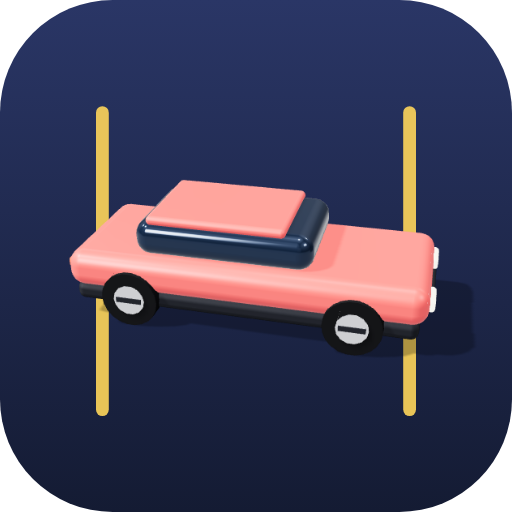
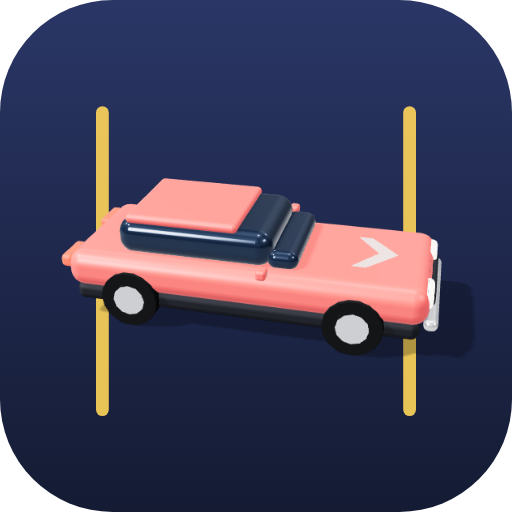
Better vehicle models
- Race car rebuilt as an open-wheel racer: pointed nose, front wing,
  driver helmet, side pods with number roundels, tapered engine cover,
  rear wing on pylons, narrow front / fat rear slicks.
- Ambulance is now a van with a hood, raked windshield, cab windows,
  side crosses and rear door line.
- Jeep: open tub floor, slotted grille, windshield frame, seat backs,
  fenders, spare-wheel hub.
- Bus window pillars, bumpers and roof hatch; ice cream truck awning;
  mixer drum supports, chute and water tank; truck fuel tanks.
- App icons re-rendered with the updated car.

Claude-Session: https://claude.ai/code/session_01PmPxjwzzer95qyShgNaDxc

diff --git a/js/models.js b/js/models.js
@@ -180,6 +180,44 @@ function lights(body, W, L, y, front = true, rear = true) {
   if (rear) for (const s of [-1, 1]) mesh(rbox(0.2, 0.07, 0.07, 0.025), M.glow(0xff1f2e, 1.7), s * W * 0.32, y, L / 2 + 0.01, body);
 }
 
+/** A box whose front (-Z) end is narrowed and lowered: noses, wedges, engine covers. */
+function wedge(w, h, d, frontW = 0.5, frontH = 0.5) {
+  return geo(`wd${w}|${h}|${d}|${frontW}|${frontH}`, () => {
+    const g = new THREE.BoxGeometry(w, h, d);
+    const pos = g.attributes.position;
+    for (let i = 0; i < pos.count; i++) {
+      if (pos.getZ(i) < 0) {
+        pos.setX(i, pos.getX(i) * frontW);
+        if (pos.getY(i) > 0) pos.setY(i, -h / 2 + h * frontH);
+      }
+    }
+    g.computeVertexNormals();
+    return g;
+  });
+}
+
+function roundel(parent, n, x, y, z, size, rotZ = 0) {
+  const m = mat('roundel' + n, () => {
+    const c = document.createElement('canvas');
+    c.width = c.height = 128;
+    const t = c.getContext('2d');
+    t.fillStyle = '#fff'; t.beginPath(); t.arc(64, 64, 60, 0, 7); t.fill();
+    t.lineWidth = 8; t.strokeStyle = '#1b1f2a'; t.stroke();
+    t.fillStyle = '#1b1f2a'; t.font = 'bold 84px system-ui, sans-serif'; t.textAlign = 'center'; t.textBaseline = 'middle';
+    t.fillText(String(n), 64, 70);
+    const tex = new THREE.CanvasTexture(c);
+    tex.colorSpace = THREE.SRGBColorSpace;
+    return new THREE.MeshStandardMaterial({ map: tex, transparent: true, roughness: 0.5, polygonOffset: true, polygonOffsetFactor: -4, polygonOffsetUnits: -4, depthWrite: false });
+  });
+  const o = new THREE.Mesh(geo('roundelPlane', () => new THREE.PlaneGeometry(1, 1)), m);
+  o.scale.set(size, size, 1);
+  o.rotation.set(-Math.PI / 2, 0, rotZ);
+  o.position.set(x, y, z);
+  o.renderOrder = 1;
+  parent.add(o);
+  return o;
+}
+
 // A forward-pointing chevron painted on the hood: the clearest "this way" cue from above.
 function hoodArrow(parent, y, z, w) {
   const g = geo('chev' + w, () => {
@@ -282,6 +320,8 @@ export function buildVehicle(v, opts = {}) {
     for (const s of [-1, 1]) mesh(rbox(0.05, 0.14, 0.04, 0.015), M.dark(), s * (W / 2 + 0.035), 0.52, -L / 2 + 0.12, body);
     lights(body, W, L, 0.33, true, true);
     for (const z of [-L / 2 + 0.38, L / 2 - 0.38, L / 2 - 0.82]) for (const s of [-1, 1]) wheel(body, s * (W / 2 - 0.04), 0.16, z, 0.16, 0.12);
+    const tank = mesh(cyl(0.075, 0.075, 0.26, 14), M.chrome(), -(W / 2 - 0.05), 0.23, -L / 2 + 0.95, body);
+    tank.rotation.x = Math.PI / 2;
     eyeY = 0.55; eyeZ = -L / 2 - 0.02;
     return { cargoZ: -L / 2 + cabL + 0.04 + (cargoLen ?? L - cabL - 0.04) / 2, cargoL: cargoLen ?? L - cabL - 0.04 };
   };
@@ -301,44 +341,95 @@ export function buildVehicle(v, opts = {}) {
       break;
     }
     case 'ambulance': {
+      const white = M.paint(0xf6f7fb), red = M.matte(0xff3040);
       mesh(rbox(W * 0.94, 0.1, L * 0.96, 0.04), M.dark(), 0, 0.14, 0, body);
-      mesh(rbox(W, 0.5, L, 0.1), M.paint(0xf6f7fb), 0, 0.42, 0, body);
-      mesh(rbox(W * 0.86, 0.17, 0.08, 0.04), M.glass(), 0, 0.52, -L / 2 + 0.02, body);
-      for (const s of [-1, 1]) mesh(new THREE.BoxGeometry(0.01, 0.07, L * 0.9), M.matte(0xff3040), s * (W / 2 + 0.002), 0.36, 0, body);
-      mesh(new THREE.BoxGeometry(0.1, 0.012, 0.3), M.matte(0xff3040), 0, 0.675, 0.15, body);
-      mesh(new THREE.BoxGeometry(0.3, 0.012, 0.1), M.matte(0xff3040), 0, 0.675, 0.15, body);
-      lightBar(body, 0.68, -L * 0.3, 0xff2020, 0xff2020, sirens);
-      lights(body, W, L, 0.3);
-      for (const z of [-L * 0.31, L * 0.31]) for (const s of [-1, 1]) wheel(body, s * (W / 2 - 0.035), 0.15, z, 0.15, 0.11);
-      eyeY = 0.53; eyeZ = -L / 2 - 0.03;
+      const hoodL = 0.4;
+      mesh(rbox(W, 0.28, hoodL + 0.1, 0.08), white, 0, 0.3, -L / 2 + (hoodL + 0.1) / 2, body);
+      const boxL = L - hoodL;
+      const bz = -L / 2 + hoodL + boxL / 2;
+      mesh(rbox(W, 0.58, boxL, 0.08), white, 0, 0.44, bz, body);
+      // raked windshield + cab side windows
+      mesh(rbox(W * 0.86, 0.2, 0.1, 0.04), M.glass(), 0, 0.5, -L / 2 + hoodL + 0.01, body);
+      for (const sx of [-1, 1]) mesh(rbox(0.02, 0.15, 0.24, 0.02), M.glass(), sx * (W / 2 + 0.002), 0.55, -L / 2 + hoodL + 0.14, body);
+      // stripes, crosses, rear doors
+      for (const sx of [-1, 1]) {
+        mesh(new THREE.BoxGeometry(0.01, 0.07, L * 0.92), red, sx * (W / 2 + 0.004), 0.33, 0, body);
+        mesh(new THREE.BoxGeometry(0.01, 0.2, 0.06), red, sx * (W / 2 + 0.005), 0.53, bz + 0.12, body);
+        mesh(new THREE.BoxGeometry(0.01, 0.06, 0.2), red, sx * (W / 2 + 0.005), 0.53, bz + 0.12, body);
+      }
+      mesh(new THREE.BoxGeometry(0.1, 0.012, 0.32), red, 0, 0.735, bz + 0.12, body);
+      mesh(new THREE.BoxGeometry(0.32, 0.012, 0.1), red, 0, 0.735, bz + 0.12, body);
+      mesh(new THREE.BoxGeometry(0.012, 0.42, 0.012), M.dark(), 0, 0.44, L / 2 + 0.003, body);
+      mesh(rbox(W * 0.96, 0.06, 0.07, 0.03), M.chrome(), 0, 0.19, -L / 2 - 0.012, body);
+      lightBar(body, 0.74, -L / 2 + hoodL + 0.12, 0xff2020, 0x2060ff, sirens);
+      lights(body, W, L, 0.33);
+      for (const z of [-L * 0.31, L * 0.31]) for (const sx of [-1, 1]) wheel(body, sx * (W / 2 - 0.035), 0.15, z, 0.15, 0.11);
+      eyeY = 0.52; eyeZ = -L / 2 + hoodL - 0.04;
       break;
     }
     case 'racecar': {
-      mesh(rbox(W * 0.9, 0.06, L * 0.96, 0.03), M.dark(), 0, 0.1, 0, body);
-      mesh(rbox(W * 0.98, 0.15, L * 0.96, 0.07), P(col), 0, 0.2, 0, body);
-      mesh(rbox(W * 0.6, 0.13, L * 0.32, 0.06), M.glass(), 0, 0.31, L * 0.05, body);
-      mesh(new THREE.BoxGeometry(0.1, 0.005, L * 0.95), M.matte(0xffffff), -0.08, 0.278, 0, body);
-      mesh(new THREE.BoxGeometry(0.1, 0.005, L * 0.95), M.matte(0xffffff), 0.08, 0.278, 0, body);
-      for (const s of [-1, 1]) mesh(new THREE.BoxGeometry(0.04, 0.16, 0.04), M.dark(), s * 0.22, 0.34, L / 2 - 0.1, body);
-      mesh(rbox(W * 1.02, 0.04, 0.16, 0.02), P(col), 0, 0.43, L / 2 - 0.1, body);
-      lights(body, W, L, 0.22);
-      for (const z of [-L * 0.32, L * 0.3]) for (const s of [-1, 1]) wheel(body, s * (W / 2 - 0.02), 0.14, z, 0.14, 0.15);
-      eyeY = 0.33; eyeZ = L * 0.05 - L * 0.16 - 0.02;
+      const paint = P(col);
+      const accent = M.paint(0xffffff);
+      // floor plank + pointed nose
+      mesh(rbox(W * 0.5, 0.04, L * 0.86, 0.015), M.dark(), 0, 0.085, 0.02, body);
+      mesh(wedge(0.3, 0.13, L * 0.42, 0.45, 0.45), paint, 0, 0.17, -L * 0.27, body);
+      mesh(rbox(0.06, 0.006, L * 0.36, 0.003), accent, 0, 0.215, -L * 0.24, body);
+      // front wing with end plates
+      mesh(rbox(W * 1.04, 0.03, 0.15, 0.012), paint, 0, 0.085, -L / 2 + 0.06, body);
+      for (const s of [-1, 1]) mesh(rbox(0.025, 0.09, 0.18, 0.01), M.dark(), s * W * 0.52, 0.11, -L / 2 + 0.06, body);
+      // cockpit tub, driver and airbox
+      mesh(rbox(0.36, 0.17, L * 0.3, 0.06), paint, 0, 0.2, -L * 0.02, body);
+      mesh(rbox(0.22, 0.03, 0.27, 0.012), M.dark(), 0, 0.285, -L * 0.03, body);
+      mesh(sph(0.075, 16), M.paint(0xffd23f), 0, 0.31, -L * 0.0, body);
+      mesh(rbox(0.11, 0.035, 0.05, 0.015), M.glass(), 0, 0.32, -L * 0.0 - 0.055, body);
+      mesh(rbox(0.2, 0.05, 0.03, 0.012), M.glass(), 0, 0.31, -L * 0.1, body);
+      mesh(rbox(0.13, 0.1, 0.16, 0.04), paint, 0, 0.33, L * 0.09, body);
+      // side pods with race numbers
+      mesh(rbox(W * 0.8, 0.13, L * 0.3, 0.05), paint, 0, 0.165, L * 0.13, body);
+      for (const sx of [-1, 1]) roundel(body, 7, sx * W * 0.27, 0.232, L * 0.13, 0.17, sx * Math.PI / 2);
+      // engine cover tapering to the back
+      const ec = mesh(wedge(0.32, 0.17, L * 0.32, 0.4, 0.4), paint, 0, 0.2, L * 0.3, body);
+      ec.rotation.y = Math.PI;
+      // rear wing on two pylons
+      for (const sx of [-1, 1]) mesh(rbox(0.03, 0.18, 0.05, 0.01), M.dark(), sx * 0.1, 0.33, L / 2 - 0.1, body);
+      mesh(rbox(W * 0.94, 0.04, 0.17, 0.015), paint, 0, 0.43, L / 2 - 0.08, body);
+      mesh(rbox(W * 0.94, 0.006, 0.04, 0.003), accent, 0, 0.452, L / 2 - 0.13, body);
+      for (const sx of [-1, 1]) mesh(rbox(0.025, 0.17, 0.21, 0.01), M.dark(), sx * W * 0.47, 0.39, L / 2 - 0.08, body);
+      mesh(rbox(0.08, 0.04, 0.02, 0.01), M.glow(0xff1f2e, 1.8), 0, 0.2, L / 2 + 0.01, body);
+      // big exposed slicks: narrow at the front, fat at the back
+      for (const sx of [-1, 1]) wheel(body, sx * (W / 2 - 0.04), 0.135, -L * 0.3, 0.135, 0.12);
+      for (const sx of [-1, 1]) wheel(body, sx * (W / 2 - 0.03), 0.165, L * 0.3, 0.165, 0.17);
+      eyeY = 0.31; eyeZ = -L * 0.1 - 0.02;
       break;
     }
     case 'jeep': {
+      const tan = M.paint(0xc9a46a);
       mesh(rbox(W * 0.94, 0.1, L * 0.96, 0.03), M.dark(), 0, 0.17, 0, body);
-      mesh(rbox(W, 0.24, L, 0.04), M.paint(0xc9a46a), 0, 0.32, 0, body);
-      mesh(rbox(W * 0.86, 0.17, 0.05, 0.02), M.glass(), 0, 0.52, -L * 0.12, body);
-      // roll bar + seats
-      for (const s of [-1, 1]) mesh(new THREE.BoxGeometry(0.04, 0.22, 0.04), M.dark(), s * W * 0.4, 0.55, L * 0.15, body);
-      mesh(new THREE.BoxGeometry(W * 0.84, 0.04, 0.04), M.dark(), 0, 0.66, L * 0.15, body);
-      for (const s of [-1, 1]) mesh(rbox(0.22, 0.12, 0.2, 0.04), M.matte(0x5b3b22), s * 0.15, 0.5, L * 0.02, body);
-      const sp = mesh(cyl(0.15, 0.15, 0.1, 18), M.rubber(), 0, 0.36, L / 2 + 0.06, body);
+      mesh(rbox(W, 0.24, L, 0.04), tan, 0, 0.32, 0, body);
+      mesh(rbox(W * 0.86, 0.02, L * 0.52, 0.01), M.dark(), 0, 0.445, L * 0.12, body); // open tub floor
+      // grille with slots + bumper
+      mesh(rbox(W * 0.6, 0.15, 0.03, 0.01), M.dark(), 0, 0.33, -L / 2 - 0.006, body);
+      for (let i = -3; i <= 3; i++) mesh(new THREE.BoxGeometry(0.018, 0.11, 0.012), M.chrome(), i * 0.055, 0.33, -L / 2 - 0.022, body);
+      mesh(rbox(W * 1.02, 0.07, 0.08, 0.02), M.dark(), 0, 0.2, -L / 2 - 0.02, body);
+      // fold-down windshield frame
+      mesh(rbox(W * 0.9, 0.2, 0.035, 0.012), M.dark(), 0, 0.55, -L * 0.1, body);
+      mesh(rbox(W * 0.8, 0.15, 0.04, 0.01), M.glass(), 0, 0.55, -L * 0.1, body);
+      // seats, roll bar, spare wheel
+      for (const sx of [-1, 1]) {
+        mesh(rbox(0.22, 0.1, 0.2, 0.04), M.matte(0x5b3b22), sx * 0.15, 0.5, L * 0.04, body);
+        mesh(rbox(0.22, 0.2, 0.06, 0.03), M.matte(0x5b3b22), sx * 0.15, 0.58, L * 0.12, body);
+      }
+      for (const sx of [-1, 1]) mesh(new THREE.BoxGeometry(0.04, 0.26, 0.04), M.dark(), sx * W * 0.42, 0.57, L * 0.22, body);
+      mesh(new THREE.BoxGeometry(W * 0.88, 0.04, 0.04), M.dark(), 0, 0.7, L * 0.22, body);
+      const sp = mesh(cyl(0.15, 0.15, 0.1, 18), M.rubber(), 0, 0.37, L / 2 + 0.06, body);
       sp.rotation.x = Math.PI / 2;
-      lights(body, W, L, 0.36);
-      for (const z of [-L * 0.31, L * 0.31]) for (const s of [-1, 1]) wheel(body, s * (W / 2 - 0.02), 0.17, z, 0.17, 0.13);
-      eyeY = 0.53; eyeZ = -L * 0.12 - 0.04;
+      const hub = mesh(cyl(0.07, 0.07, 0.11, 12), tan, 0, 0.37, L / 2 + 0.06, body);
+      hub.rotation.x = Math.PI / 2;
+      // chunky fenders over the tyres
+      for (const z of [-L * 0.31, L * 0.31]) for (const sx of [-1, 1]) mesh(rbox(0.12, 0.05, 0.42, 0.02), M.dark(), sx * (W / 2 + 0.02), 0.36, z, body);
+      lights(body, W, L, 0.38);
+      for (const z of [-L * 0.31, L * 0.31]) for (const sx of [-1, 1]) wheel(body, sx * (W / 2 - 0.02), 0.17, z, 0.17, 0.14);
+      eyeY = 0.55; eyeZ = -L * 0.1 - 0.04;
       break;
     }
     case 'tractor': {
@@ -371,6 +462,10 @@ export function buildVehicle(v, opts = {}) {
       mesh(rbox(W * 0.86, 0.2, 0.06, 0.03), M.glass(), 0, 0.55, -L / 2 + 0.01, body);
       for (const s of [-1, 1]) mesh(new THREE.BoxGeometry(0.012, 0.03, L * 0.98), M.matte(0x1a1a1a), s * (W / 2 + 0.003), 0.4, 0, body);
       mesh(rbox(W * 0.7, 0.03, L * 0.8, 0.015), M.matte(0xf3f3f3), 0, 0.75, 0, body);
+      mesh(rbox(0.3, 0.03, 0.26, 0.012), M.matte(0xd9dde4), 0, 0.77, L * 0.12, body);
+      for (let z = -L / 2 + 0.42; z < L / 2 - 0.1; z += 0.26) for (const sx of [-1, 1]) mesh(new THREE.BoxGeometry(0.016, 0.16, 0.045), M.paint(0xffc01a), sx * (W / 2 + 0.009), 0.56, z, body);
+      mesh(rbox(W * 1.0, 0.07, 0.07, 0.03), M.dark(), 0, 0.2, -L / 2 - 0.01, body);
+      mesh(rbox(W * 1.0, 0.07, 0.07, 0.03), M.dark(), 0, 0.2, L / 2 + 0.01, body);
       lights(body, W, L, 0.3);
       for (const z of [-L / 2 + 0.4, L / 2 - 0.45]) for (const s of [-1, 1]) wheel(body, s * (W / 2 - 0.04), 0.16, z, 0.16, 0.12);
       eyeY = 0.56; eyeZ = -L / 2 - 0.03;
@@ -389,7 +484,15 @@ export function buildVehicle(v, opts = {}) {
       const { cargoZ, cargoL } = truckBase(0xff8fc8);
       mesh(rbox(W * 0.98, 0.58, cargoL, 0.08), M.paint(0xfff4fa), 0, 0.51, cargoZ, body);
       mesh(rbox(W + 0.01, 0.12, cargoL * 0.96, 0.04), M.paint(0xff8fc8), 0, 0.3, cargoZ, body);
-      for (const s of [-1, 1]) mesh(new THREE.BoxGeometry(0.01, 0.2, cargoL * 0.5), M.glass(), s * (W * 0.49 + 0.003), 0.55, cargoZ, body);
+      for (const s of [-1, 1]) {
+        mesh(new THREE.BoxGeometry(0.01, 0.2, cargoL * 0.5), M.glass(), s * (W * 0.49 + 0.003), 0.55, cargoZ, body);
+        // striped awning over the serving window
+        const n = 6, seg = (cargoL * 0.56) / n;
+        for (let i = 0; i < n; i++) {
+          const a = mesh(new THREE.BoxGeometry(0.11, 0.015, seg), M.matte(i % 2 ? 0xffffff : 0xff6fae), s * (W / 2 + 0.045), 0.69, cargoZ - cargoL * 0.28 + seg * (i + 0.5), body);
+          a.rotation.z = -s * 0.45;
+        }
+      }
       const cz = cargoZ;
       const c = mesh(cone(0.11, 0.26, 12), M.flat(0xdca35e), 0, 0.92, cz, body);
       c.rotation.x = Math.PI;
@@ -426,6 +529,10 @@ export function buildVehicle(v, opts = {}) {
       });
       drum = mesh(dg, tex, 0, 0, 0, pivot);
       drum.rotation.x = Math.PI / 2;
+      for (const dz of [-cargoL * 0.32, cargoL * 0.3]) for (const sx of [-1, 1]) mesh(rbox(0.05, 0.3, 0.06, 0.015), M.dark(), sx * 0.2, 0.33, cargoZ + dz, body);
+      const chute = mesh(rbox(0.12, 0.03, 0.3, 0.01), M.dark(), 0, 0.42, L / 2 - 0.02, body);
+      chute.rotation.x = 0.5;
+      mesh(cyl(0.09, 0.09, 0.18, 12), M.chrome(), W * 0.33, 0.28, -L / 2 + 0.95, body).rotation.x = Math.PI / 2;
       break;
     }
     default: {

diff --git a/js/main.js b/js/main.js
@@ -8,7 +8,7 @@ import { initParent, requestSettings, openGate, openPanel, closeAll, isOpen } fr
 import * as studio from './studio.js';
 
 const $ = (s) => document.querySelector(s);
-const VERSION = '2.1.2';
+const VERSION = '2.2.0';
 
 // ------------------------------------------------------------ helpers ---
 

diff --git a/sw.js b/sw.js
@@ -1,5 +1,5 @@
 // Offline-first service worker: everything the game needs is precached.
-const VERSION = 'bbj-v2.1.2';
+const VERSION = 'bbj-v2.2.0';
 const ASSETS = [
   './',
   'index.html',
